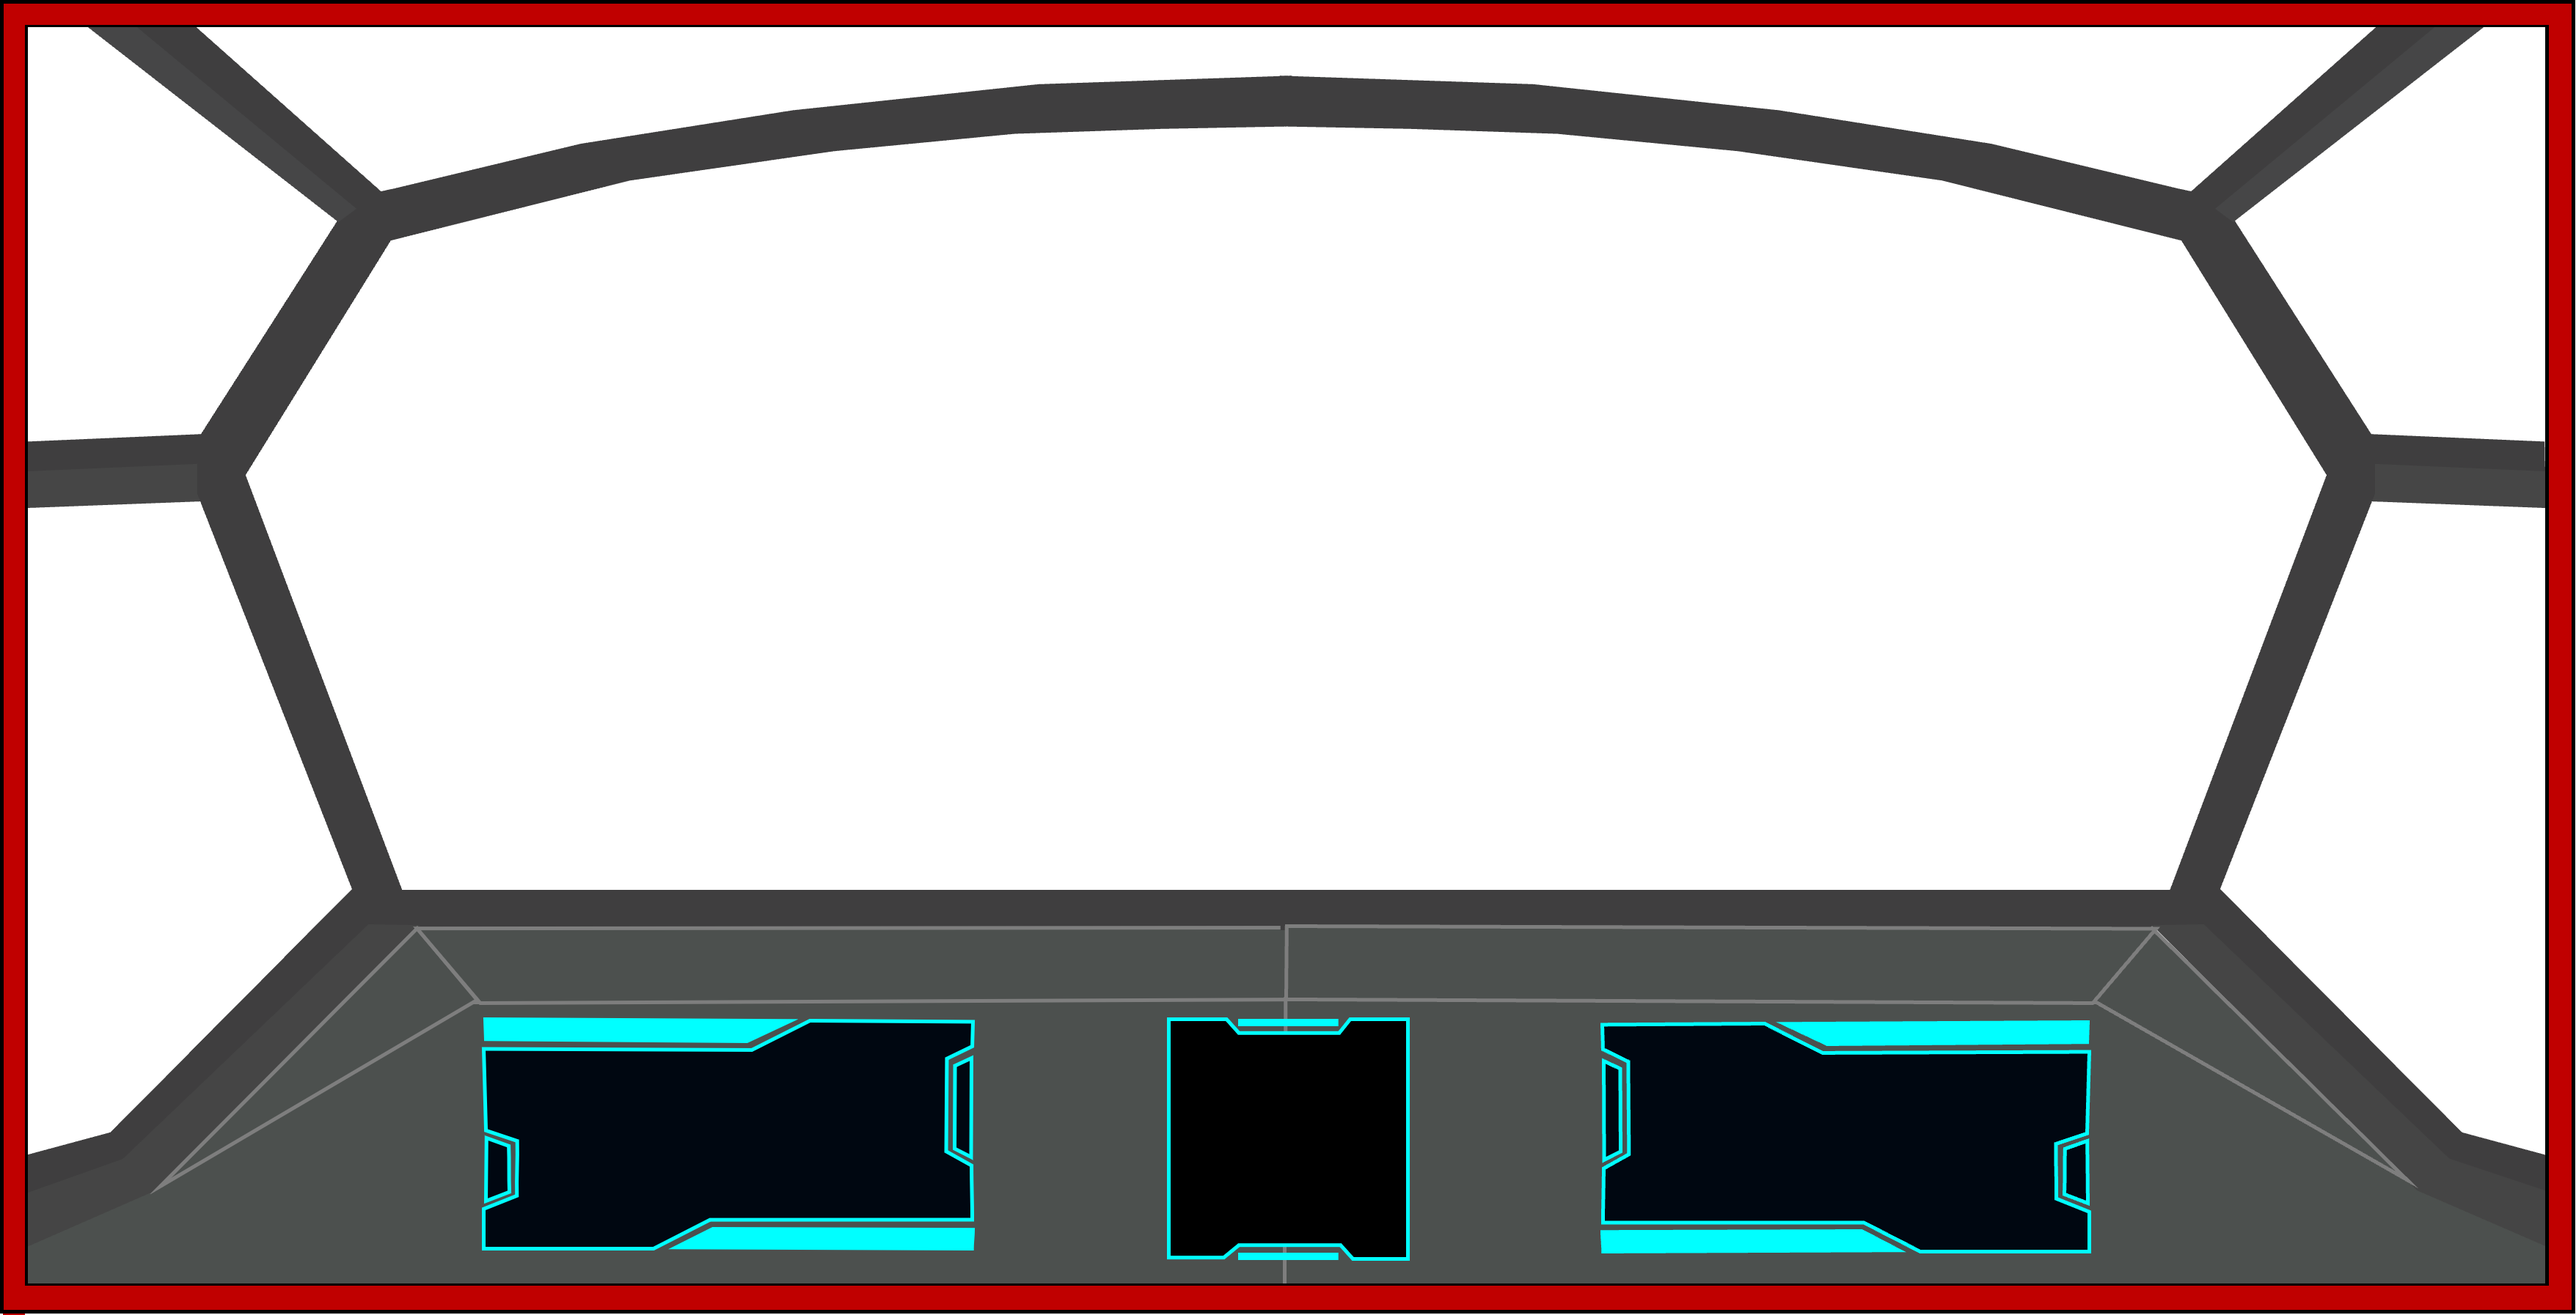
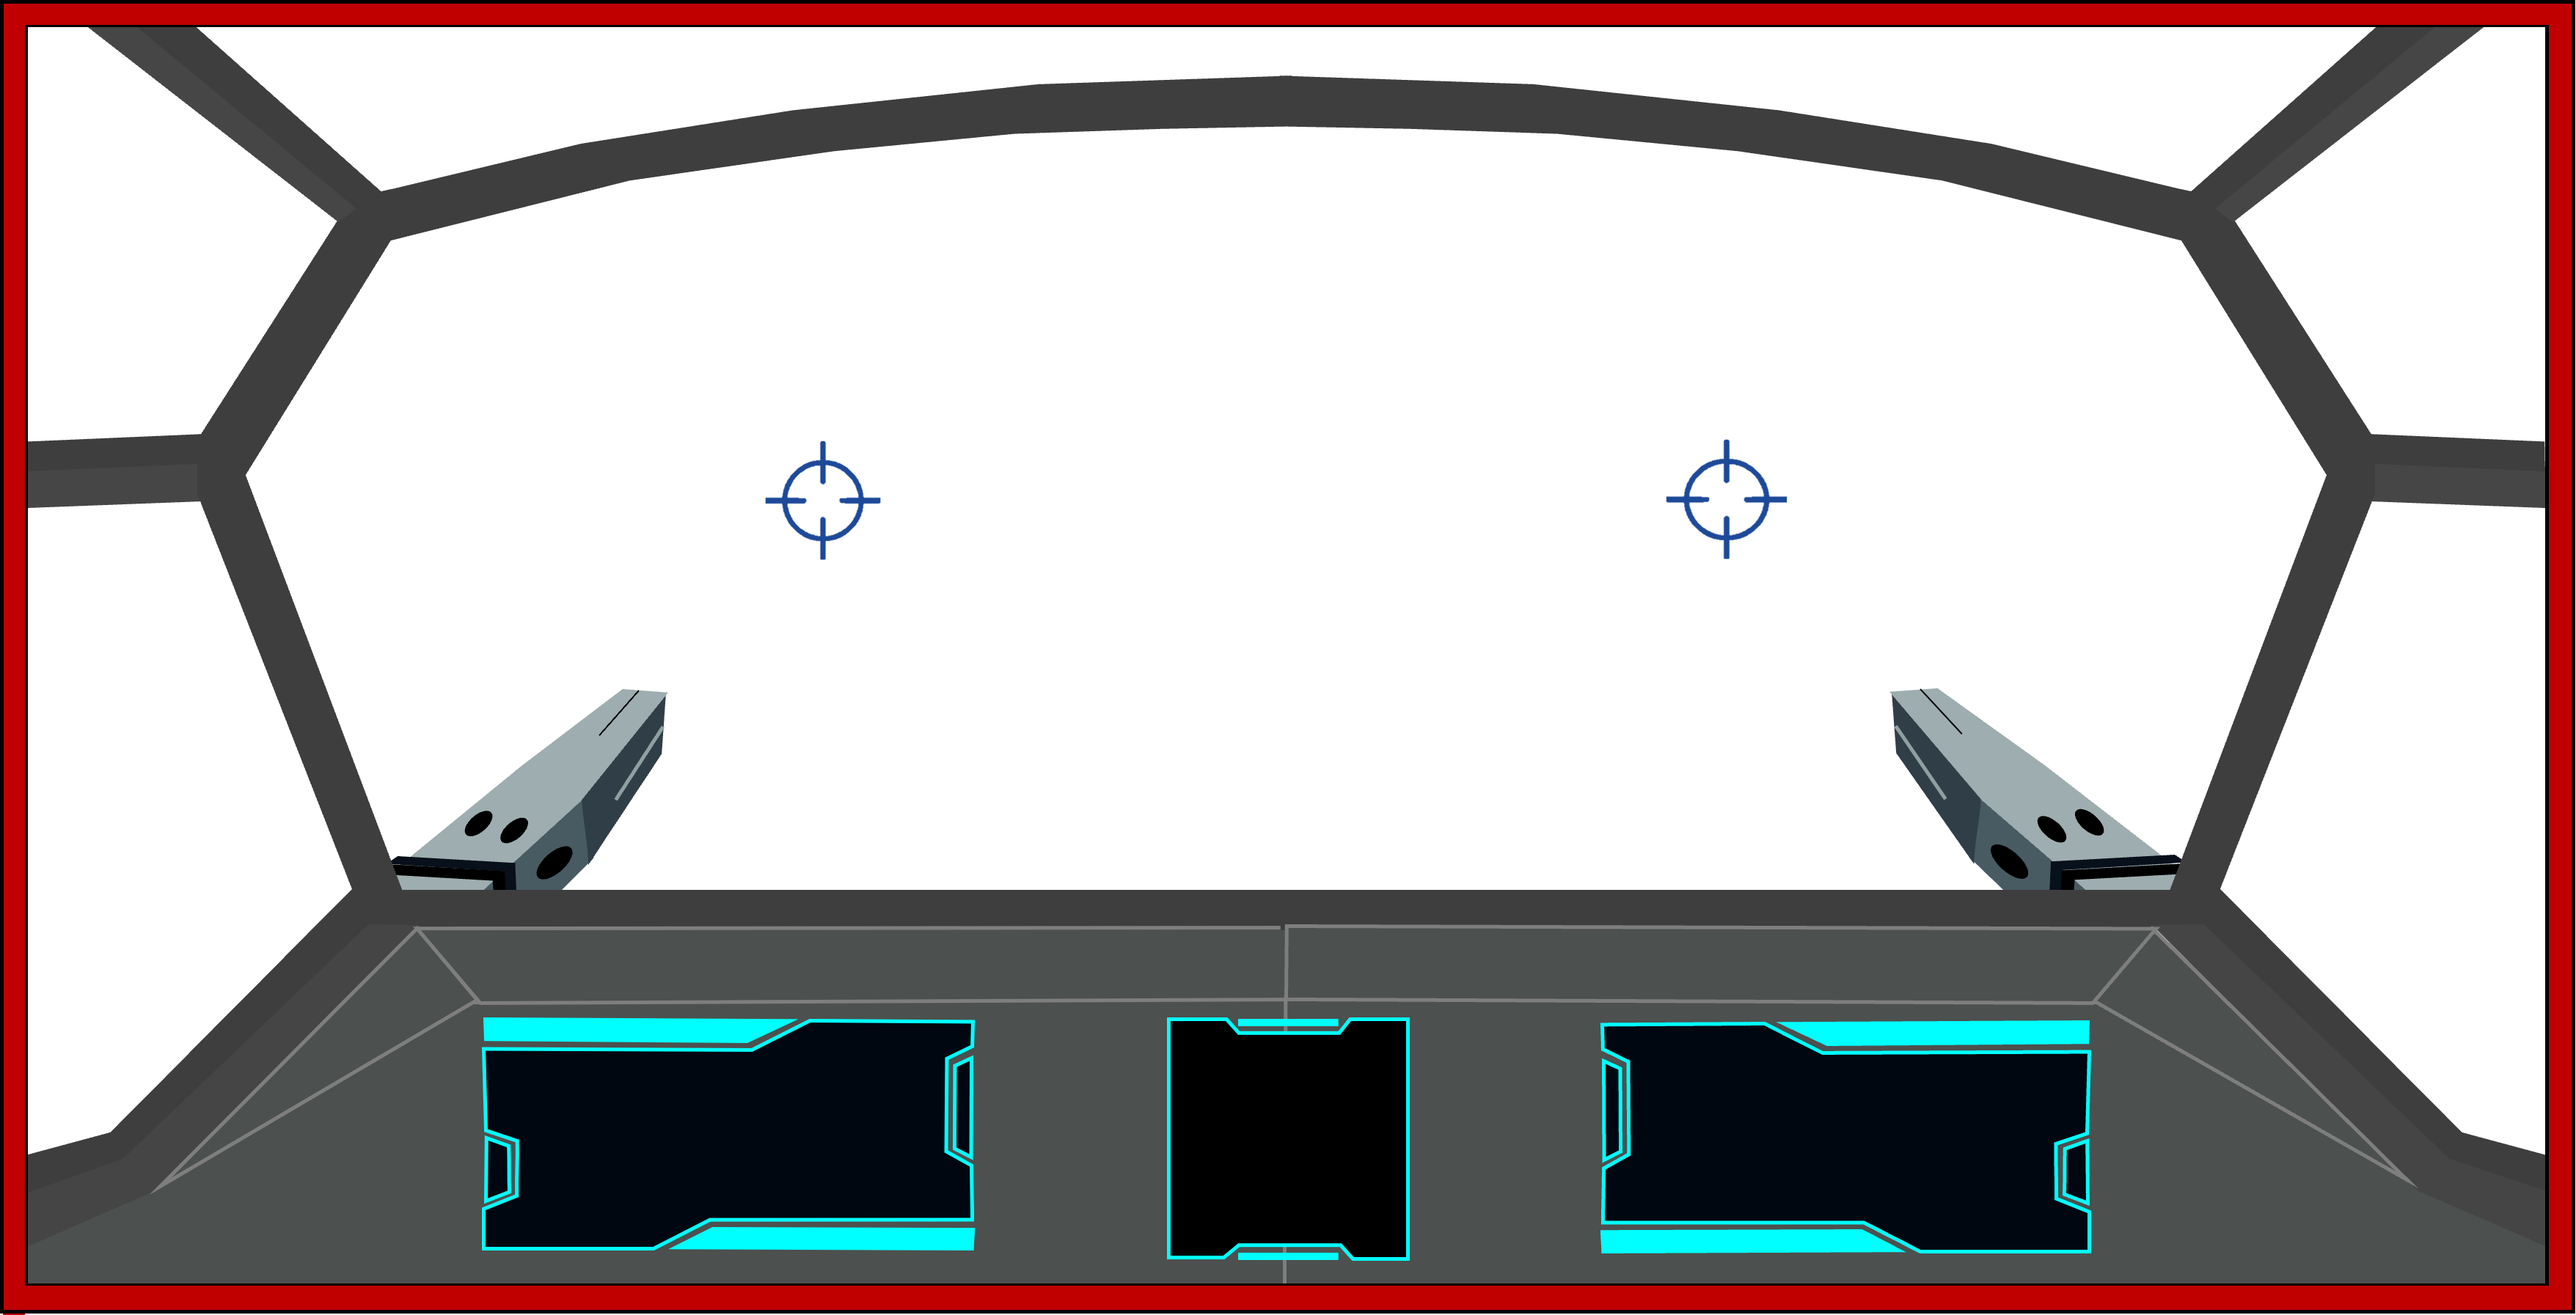
Clean the Code, add rotation to asteroid and radar

diff --git a/js/game.js b/js/game.js
@@ -2,7 +2,8 @@ class Game {
 	constructor() {
 		this.background = new Background();
 		this.player = new Player();
-		this.asteroid = new Asteroid();
+		// CHANGE THE MAX WIDTH AND HEIGHT
+		this.asteroid = new Asteroid(Math.floor(Math.random() * 900 )+50,Math.floor(Math.random() * 400 )+50);
 		this.backgroundImages;
 		this.playerImg;
 		this.asteroidImgs;
@@ -13,7 +14,7 @@ class Game {
 	preload() {
 		this.backgroundImages = [
 			{ src: loadImage('assets/background/sky.png'), x: 0, y: 0, speed: 0 },
-			// { src: loadImage('assets/background/panel.png'), x: 0, speed: 1 },
+			{ src: loadImage('assets/background/Galaxy1.png') },
 			// { src: loadImage('assets/background/plx-3.png'), x: 0, speed: 2 },
 			// { src: loadImage('assets/background/plx-4.png'), x: 0, speed: 3 },
 			// { src: loadImage('assets/background/plx-5.png'), x: 0, speed: 4 }
@@ -21,60 +22,23 @@ class Game {
 		this.playerImg = [
 			{ src: loadImage('assets/background/panel.png') },
 			{ src: loadImage('assets/background/radar.png') },
+			{ src: loadImage('../assets/background/Explosion Blue.gif') },
 		];
 		this.asteroidImgs = [
 			{
 				src: loadImage('assets/background/Asteroid 1.png'),
-				x: 500,
-				y: 200,
-				z: 1000,
-                width: 50,
-                height: 50,
-                scale: 0,
-				speed: 10,
-				size: 1,
-				turn: 1,
-                damage:0
 			},
 			{
 				src: loadImage('assets/background/Asteroid 2.png'),
-				x: 500,
-				y: 200,
-				z: 1000,
-				speed: 10,
-				size: 1,
-				turn: 1,
-                damage:0
 			},
 			{
 				src: loadImage('assets/background/Asteroid 3.png'),
-				x: 500,
-				y: 200,
-				z: 1000,
-				speed: 10,
-				size: 1,
-				turn: 1,
-                damage:0
 			},
 			{
 				src: loadImage('assets/background/Asteroid 4.png'),
-				x: 500,
-				y: 200,
-				z: 1000,
-				speed: 10,
-				size: 1,
-				turn: 1,
-                damage:0
 			},
 			{
 				src: loadImage('assets/background/Asteroid 5.png'),
-				x: 500,
-				y: 200,
-				z: 1000,
-				speed: 10,
-				size: 1,
-				turn: 1,
-                damage:0
 			},
 		];
 	}
@@ -82,7 +46,7 @@ class Game {
 	draw() {
 		clear();
 		this.background.draw();
-        this.asteroid.draw();
+		this.asteroid.draw();
 		this.player.draw();
 		// this.checkMouseRight()
 		// this.checkMouseLeft()
@@ -115,11 +79,4 @@ class Game {
 			game.player.movementY(-1);
 		}
 	}
-	// checkMouseRight() {
-	// 	if (mouseX > 550 && mouseX <= 700) {
-	// 		game.player.moveRight(1);
-	// 	} else if (mouseX > 700 && 1000) {
-	// 		game.player.moveRight(2);
-	// 	}
-	// }
 }

diff --git a/js/background.js b/js/background.js
@@ -1,19 +1,22 @@
 class Background {
-    draw(){
-        let img = game.backgroundImages[0]
-        img.x = game.north
-        img.y = game.horizont
-        // console.log(img.x);
-        // game.north +=5
-        // img.x -=20
-        
-        image(img.src, img.x, img.y-250, width, height*2)
-        image(img.src, img.x + 1000, img.y-250, width, height*2)
-        image(img.src, img.x - 1000, img.y-250, width, height*2)
-			
-			if (game.north <= - width) game.north = 0
-            if (game.north  >=  1000) game.north= 0
-        
-        
-    }
+	draw() {
+		let img = game.backgroundImages[0];
+		img.x = game.north;
+		img.y = game.horizont;
+
+		image(img.src, img.x, img.y - 250, width, height * 2);
+		image(img.src, img.x + 1000, img.y - 250, width, height * 2);
+		image(img.src, img.x - 1000, img.y - 250, width, height * 2);
+
+		if (game.north <= -width) game.north = 0;
+		if (game.north >= 1000) game.north = 0;
+        // Galaxy
+		image(
+			game.backgroundImages[1].src,
+			game.north + 200,
+			game.horizont + 200,
+			200,
+			100
+		);
+	}
 }

diff --git a/js/asteroid.js b/js/asteroid.js
@@ -1,14 +1,40 @@
 class Asteroid {
+	constructor(x,y) {
+		this.x = x;
+		this.y = y;
+		this.z = 1000;
+		this.width = 100;
+		this.height = 100;
+		this.scale = 0;
+		this.speed = 10;
+		this.size = 1;
+		this.turn = 45;
+		this.damage = 0;
+	}
 	draw() {
-        imageMode(CENTER)
+		imageMode(CENTER);
 		let imgAst = game.asteroidImgs[0];
-		image(imgAst.src,game.north + 500, game.horizont + 200, imgAst.width, imgAst.height);
+		
+			// INCREASE SIZE
+		// this.width *= 1.003
+		// this.height *= 1.003
 
-        // imgAst.width *= 1.003
-        // imgAst.height *= 1.003
-    //     // console.log(sizeX);
-    imageMode(CORNER)
-
-        
+		// ROTATION
+		angleMode(DEGREES)
+		translate(game.north + this.x, game.horizont + this.y,);
+		
+		rotate(this.turn)
+		image(
+			imgAst.src, 
+			0,
+			0,
+			this.width,
+			this.height);
+		
+		rotate(360-this.turn)
+		
+		this.turn += 0.2
+		imageMode(CORNER);
+		translate(-game.north -this.x , -game.horizont-this.y);
 	}
 }

diff --git a/js/player.js b/js/player.js
@@ -5,20 +5,31 @@ class Player {
 		let imgPanel = game.playerImg[0];
 		let imgRadar = game.playerImg[1];
 		image(imgPanel.src, -10, -10, width + 21, height + 22);
-        image(imgRadar.src, 468, 410, 65, 65)
-        // this.radar()
-		// imageMode(CENTER)
 
-		// rotateZ()
-		
-		// console.log(mouseX, mouseY);
+		// BlueFire on Weapon
+		// image(game.playerImg[2].src,700,225,80,80)
+
+		this.radar();
 	}
 
 	radar() {
-		// translate(width / 2, height / 2);
-		// rotate((PI / 180) * 45);
-		// imageMode(CENTER);
-		image(imgRadar.src, 468, 410, 65, 65);
+		// ROTATION
+
+		// CHANGE DEGREE for rotation
+		let imgRadar = game.playerImg[1];
+		angleMode(DEGREES);
+		imageMode(CENTER);
+		translate(500, 442);
+
+		rotate(-game.north / 10);
+		console.log('her');
+
+		image(imgRadar.src, 0, 0, 65, 65);
+
+		rotate(360 + game.north / 10);
+
+		imageMode(CORNER);
+		translate(-468, -410);
 	}
 
 	movementX(val) {
